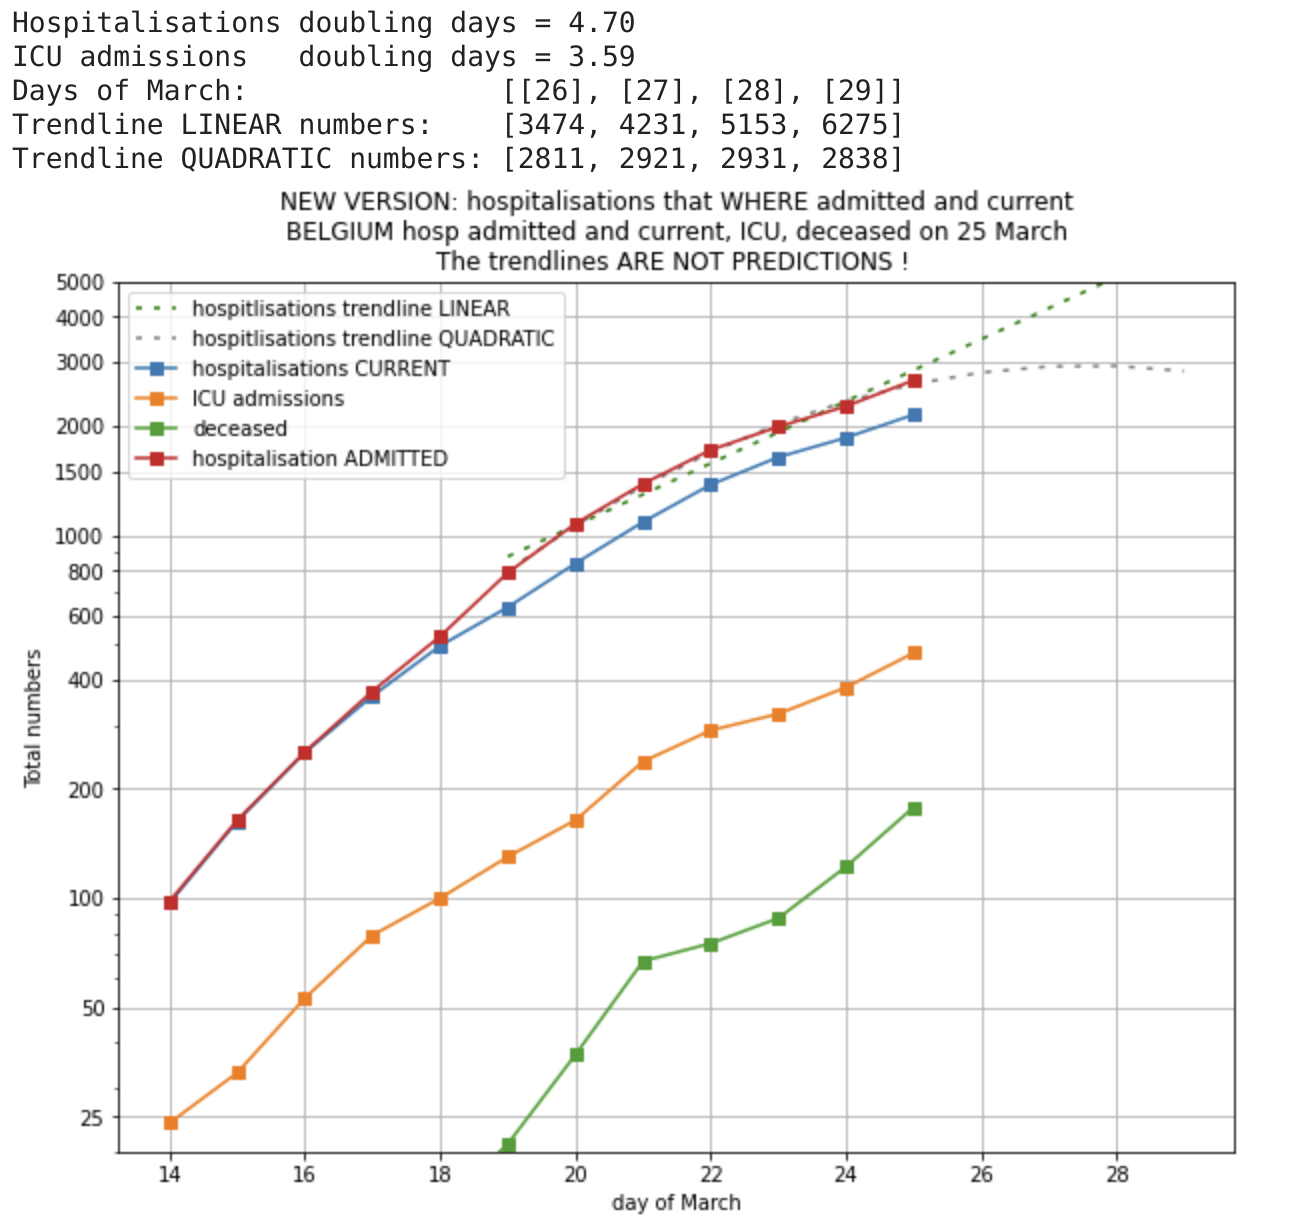
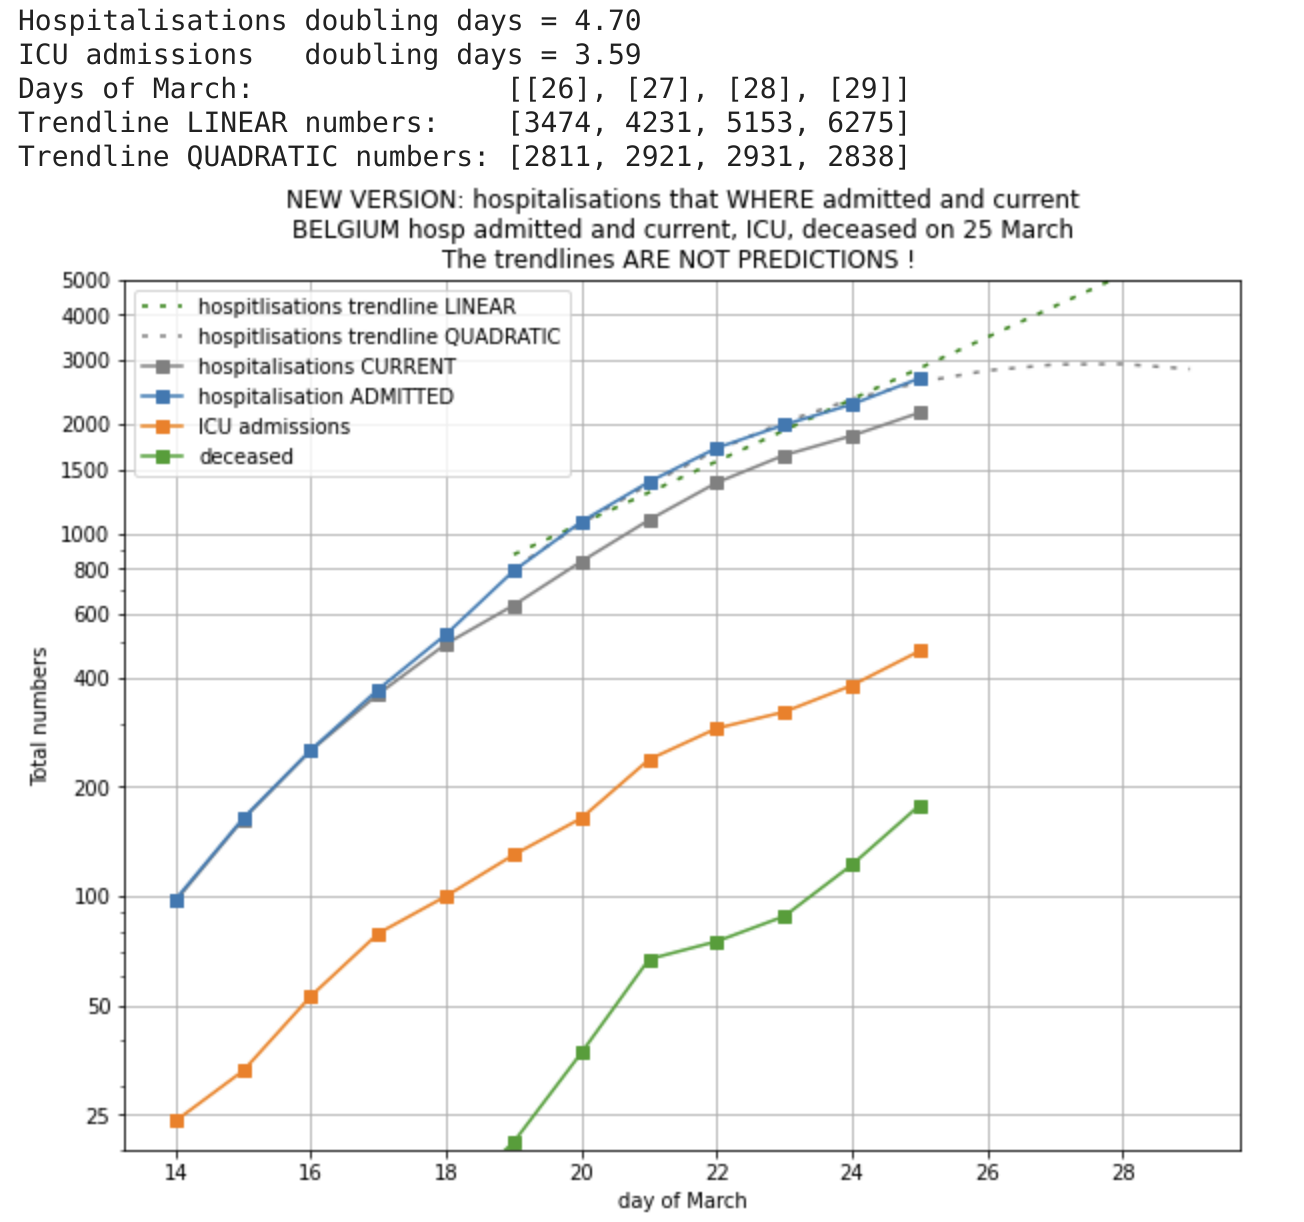
Make colors explicit
Colors from https://matplotlib.org/3.2.0/users/dflt_style_changes.html

diff --git a/code/Belgium/Belgium-2020-03-25.py b/code/Belgium/Belgium-2020-03-25.py
@@ -88,10 +88,10 @@ plt.yticks(values, ['%d' % val for val in values])
 
 plt.plot(X_, trend_1, color = 'green', dashes=[2, 4], label="hospitlisations trendline LINEAR")
 plt.plot(X_, trend_2, color = 'gray', dashes=[2, 4], label="hospitlisations trendline QUADRATIC")
-plt.plot(day_of_march, hosp_current, 's-', label="hospitalisations CURRENT")
-plt.plot(day_of_march_ICU, ICU, 's-', label="ICU admissions")
-plt.plot(day_of_march, deceased, 's-', label="deceased")
-plt.plot(day_of_march, hosp_admitted, 's-', label="hospitalisation ADMITTED")
+plt.plot(day_of_march, hosp_current, 's-', color = 'gray', label="hospitalisations CURRENT")
+plt.plot(day_of_march, hosp_admitted, 's-', color = 'C0', label="hospitalisation ADMITTED")
+plt.plot(day_of_march_ICU, ICU, 's-', color = 'C1', label="ICU admissions")
+plt.plot(day_of_march, deceased, 's-', color = 'C2', label="deceased")
 
 
 plt.xlabel("day of March")
